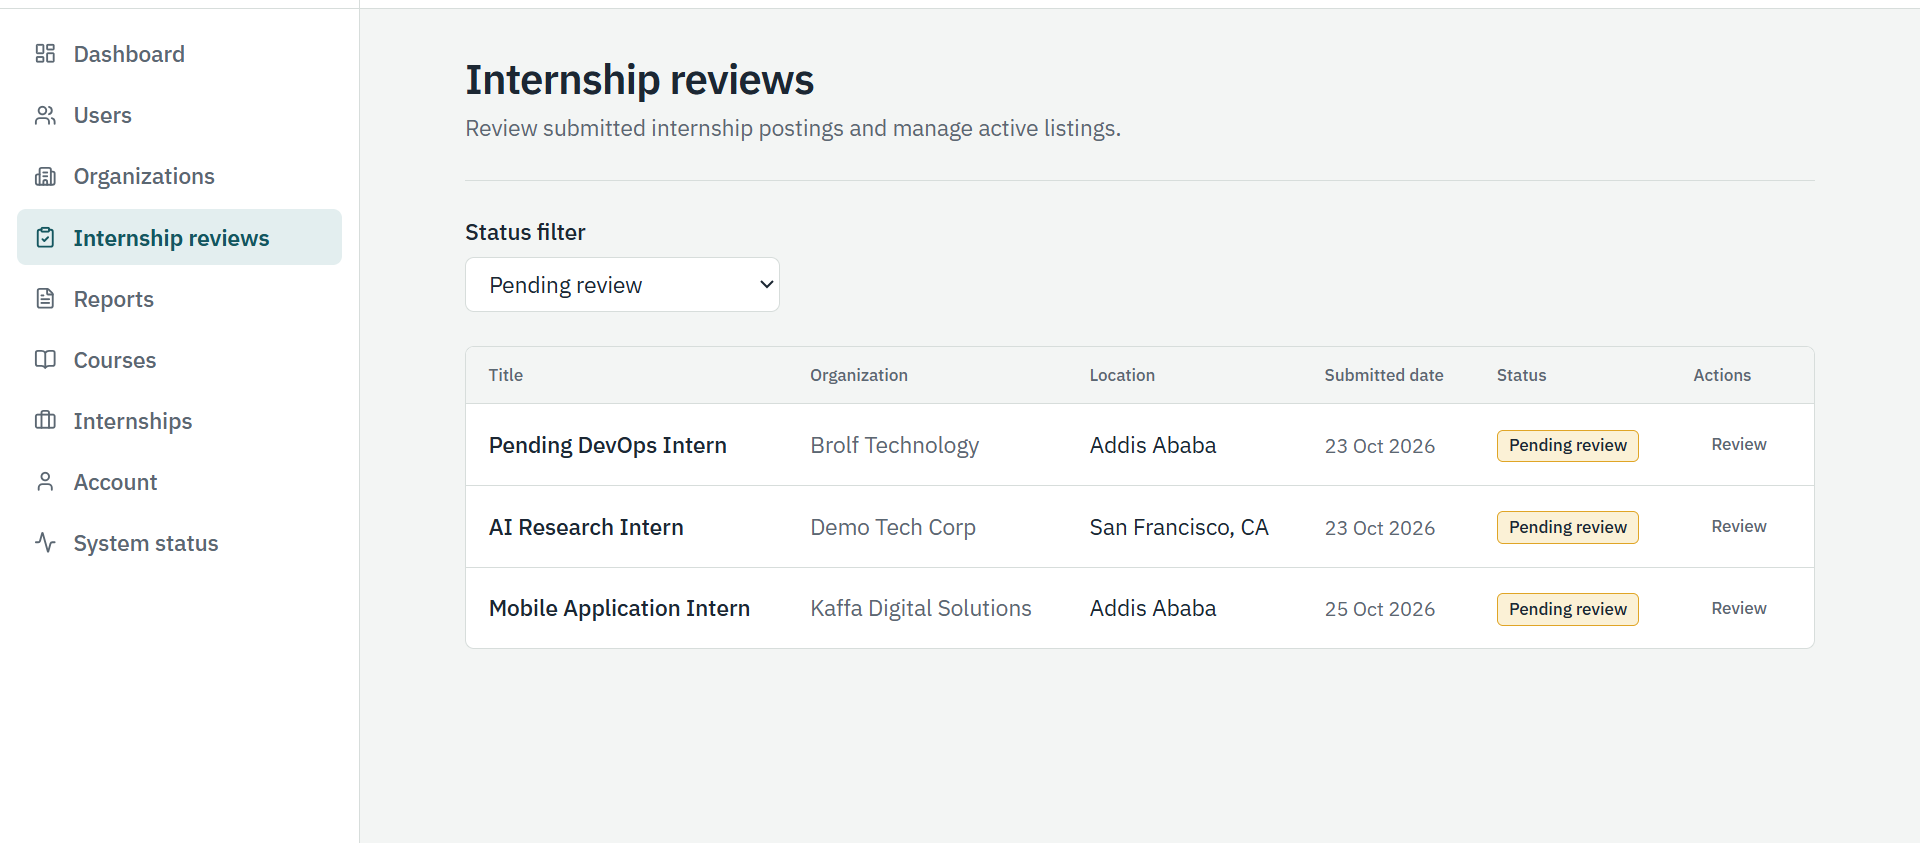
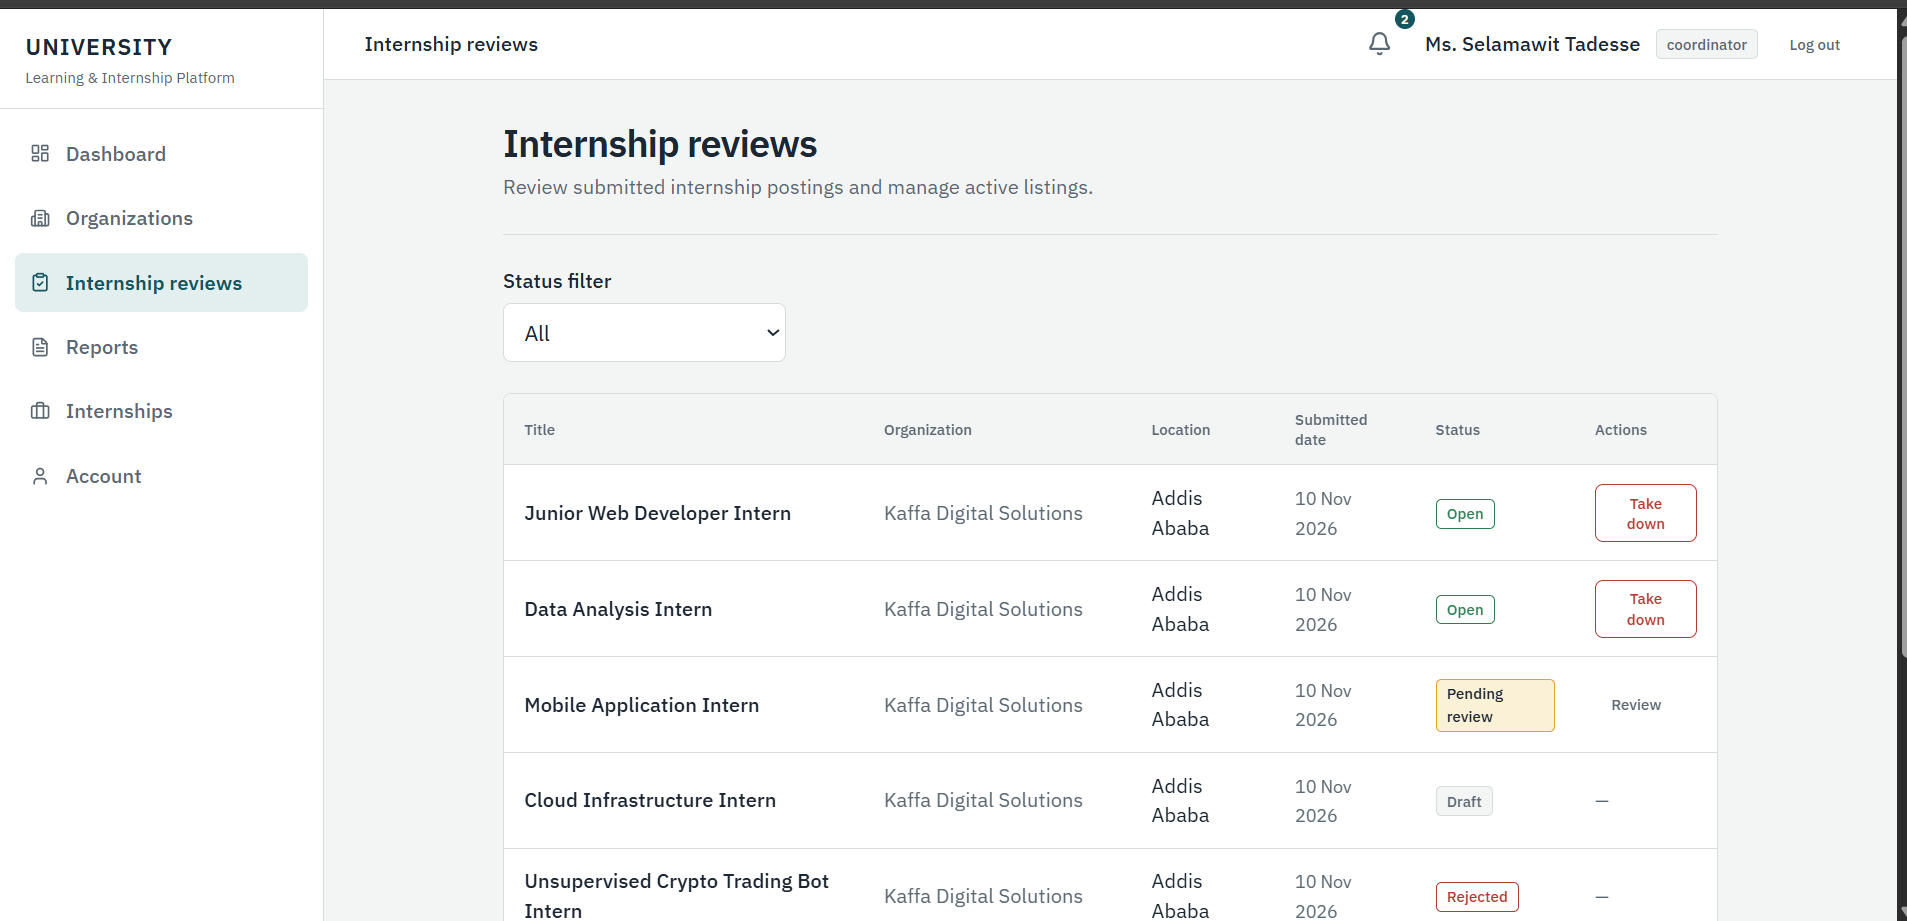
docs: truth-check screenshots, update alt text and captions, and add study-plan image

diff --git a/docs/user-guide.md b/docs/user-guide.md
@@ -77,8 +77,8 @@ All demo accounts are provisioned via `scripts/seed_demo.py`. For local testing 
    - "ER Diagramming &amp; Conceptual Modeling" past due displays a past due badge.
 4. Review the **Recent Grades** panel showing scored assignments with percentage chips and instructor feedback (e.g., 100% on ER Diagramming).
 
-![Student dashboard with course progress, due assignments, recommendations, and achievement badges](screenshots/student-dashboard.png)
-*Student dashboard displaying course progress bars, upcoming due dates, matching internship suggestions, and achievement badges.*
+![Student dashboard with coursework metrics, rule-based next steps action items, and upcoming assignment deadlines](screenshots/student-dashboard.png)
+*Student dashboard displaying course enrollment metrics, rule-based next steps task items with effort estimates, and upcoming assignment due dates.*
 
 ### Step 2: Browse &amp; Enroll in Courses (`/courses`)
 1. Click **Courses** in the main navigation.
@@ -129,6 +129,9 @@ All demo accounts are provisioned via `scripts/seed_demo.py`. For local testing 
    - Open suggested internships with deadlines in the window prompt students to apply. Students with incomplete profiles receive an explicit **Profile incomplete** badge and guidance to complete mandatory fields.
 4. Switch the study window between **7 days** (default) and **14 days** using the window selector pills (the frontend automatically includes the student browser's timezone offset in minutes so dates match local time).
 5. Click **How this plan is made** to expand the full explanation of how the schedule is computed. Note that this plan is 100% rule-based and deterministic without any AI.
+
+![Rule-based study plan and weekly progress schedule](screenshots/study-plan.png)
+*Deterministic rule-based study plan displaying weekly progress summary, academic performance averages, and daily scheduled tasks with effort estimates.*
 
 ![Internship catalog with rule-based recommendation cards and search filters](screenshots/suggested-internships.png)
 *Internship catalog displaying rule-based suggestion cards with percentage match scores, keyword search, and work mode filter.*
@@ -210,8 +213,8 @@ All demo accounts are provisioned via `scripts/seed_demo.py`. For local testing 
    - Meron Girma: **Shortlisted**
 5. Click **Review Application** to advance candidate decisions. Terminal decisions lock the application against tampering.
 
-![Organization dashboard showing posting overview and latest applicants with status badges](screenshots/organization-applicants.png)
-*Organization dashboard displaying posting counts across lifecycle stages and recent applicant status summary.*
+![Organization internship postings table with status badges, applicant counts, and review feedback notice](screenshots/organization-applicants.png)
+*Organization internship management view displaying postings across lifecycle statuses, applicant counts, and admin review rejection feedback notice.*
 
 ---
 
@@ -280,8 +283,8 @@ All demo accounts are provisioned via `scripts/seed_demo.py`. For local testing 
 4. Click **Approve** to publish to students, or **Reject** with feedback for the employer.
 5. Take down listings when necessary to safeguard student placements.
 
-![Internship reviews moderation queue with status filter and listing review actions](screenshots/coordinator-reviews.png)
-*Internship moderation table displaying pending listings with organization, location, submission timestamp, and review action button.*
+![Internship reviews moderation queue with status filter and review and takedown actions](screenshots/coordinator-reviews.png)
+*Internship moderation table displaying listings across statuses with organization, location, submission timestamp, review action, and takedown buttons.*
 
 ### Step 4: Internship Listings and Read-Only Applicant Inspection (`/internships`)
 1. Click **Internships** to browse all platform listings across all statuses (`draft`, `pending_review`, `open`, `closed`, `rejected`).
@@ -374,8 +377,8 @@ The web application is fully responsive across mobile, tablet, and desktop displ
 - Responsive data tables with horizontal scroll containers and card layouts.
 - Tested on narrow 360px mobile viewports for student course access and application tracking.
 
-![Mobile responsive dashboard layout on 360px viewport with header menu toggle and stacked cards](screenshots/mobile-360.png)
-*Mobile viewport rendering at 360px width showing stacked dashboard metric cards, due dates, and top navigation header with menu toggle.*
+![Mobile slide-over navigation drawer on 360px viewport with close button and user menu links](screenshots/mobile-360.png)
+*Mobile viewport rendering at 360px width showing the expanded slide-over navigation drawer, close toggle, full platform navigation links, and student session footer.*
 
 ---
 

diff --git a/README.md b/README.md
@@ -4,7 +4,11 @@
 
 A web platform that integrates academic coursework management, assignment submission and grading, verified corporate internship postings, and university administrative oversight into a unified system. Built with Python FastAPI, PostgreSQL, and React with TypeScript, it enforces server-side role-based access control, relational data integrity, and strict input validation across all workflows.
 
-![Student learning dashboard and internship tracker](docs/screenshots/student-dashboard.png)
+![Student dashboard showing enrolled courses, assignment metrics, rule-based next steps, and upcoming due dates](docs/screenshots/student-dashboard.png)
+*Student dashboard displaying enrollment metrics, rule-based next steps action items, and upcoming assignment due dates.*
+
+![Rule-based weekly study plan and progress summary](docs/screenshots/study-plan.png)
+*Deterministic rule-based weekly study plan displaying progress summary, workload alerts, and daily schedule allocations.*
 
 ## Features
 
